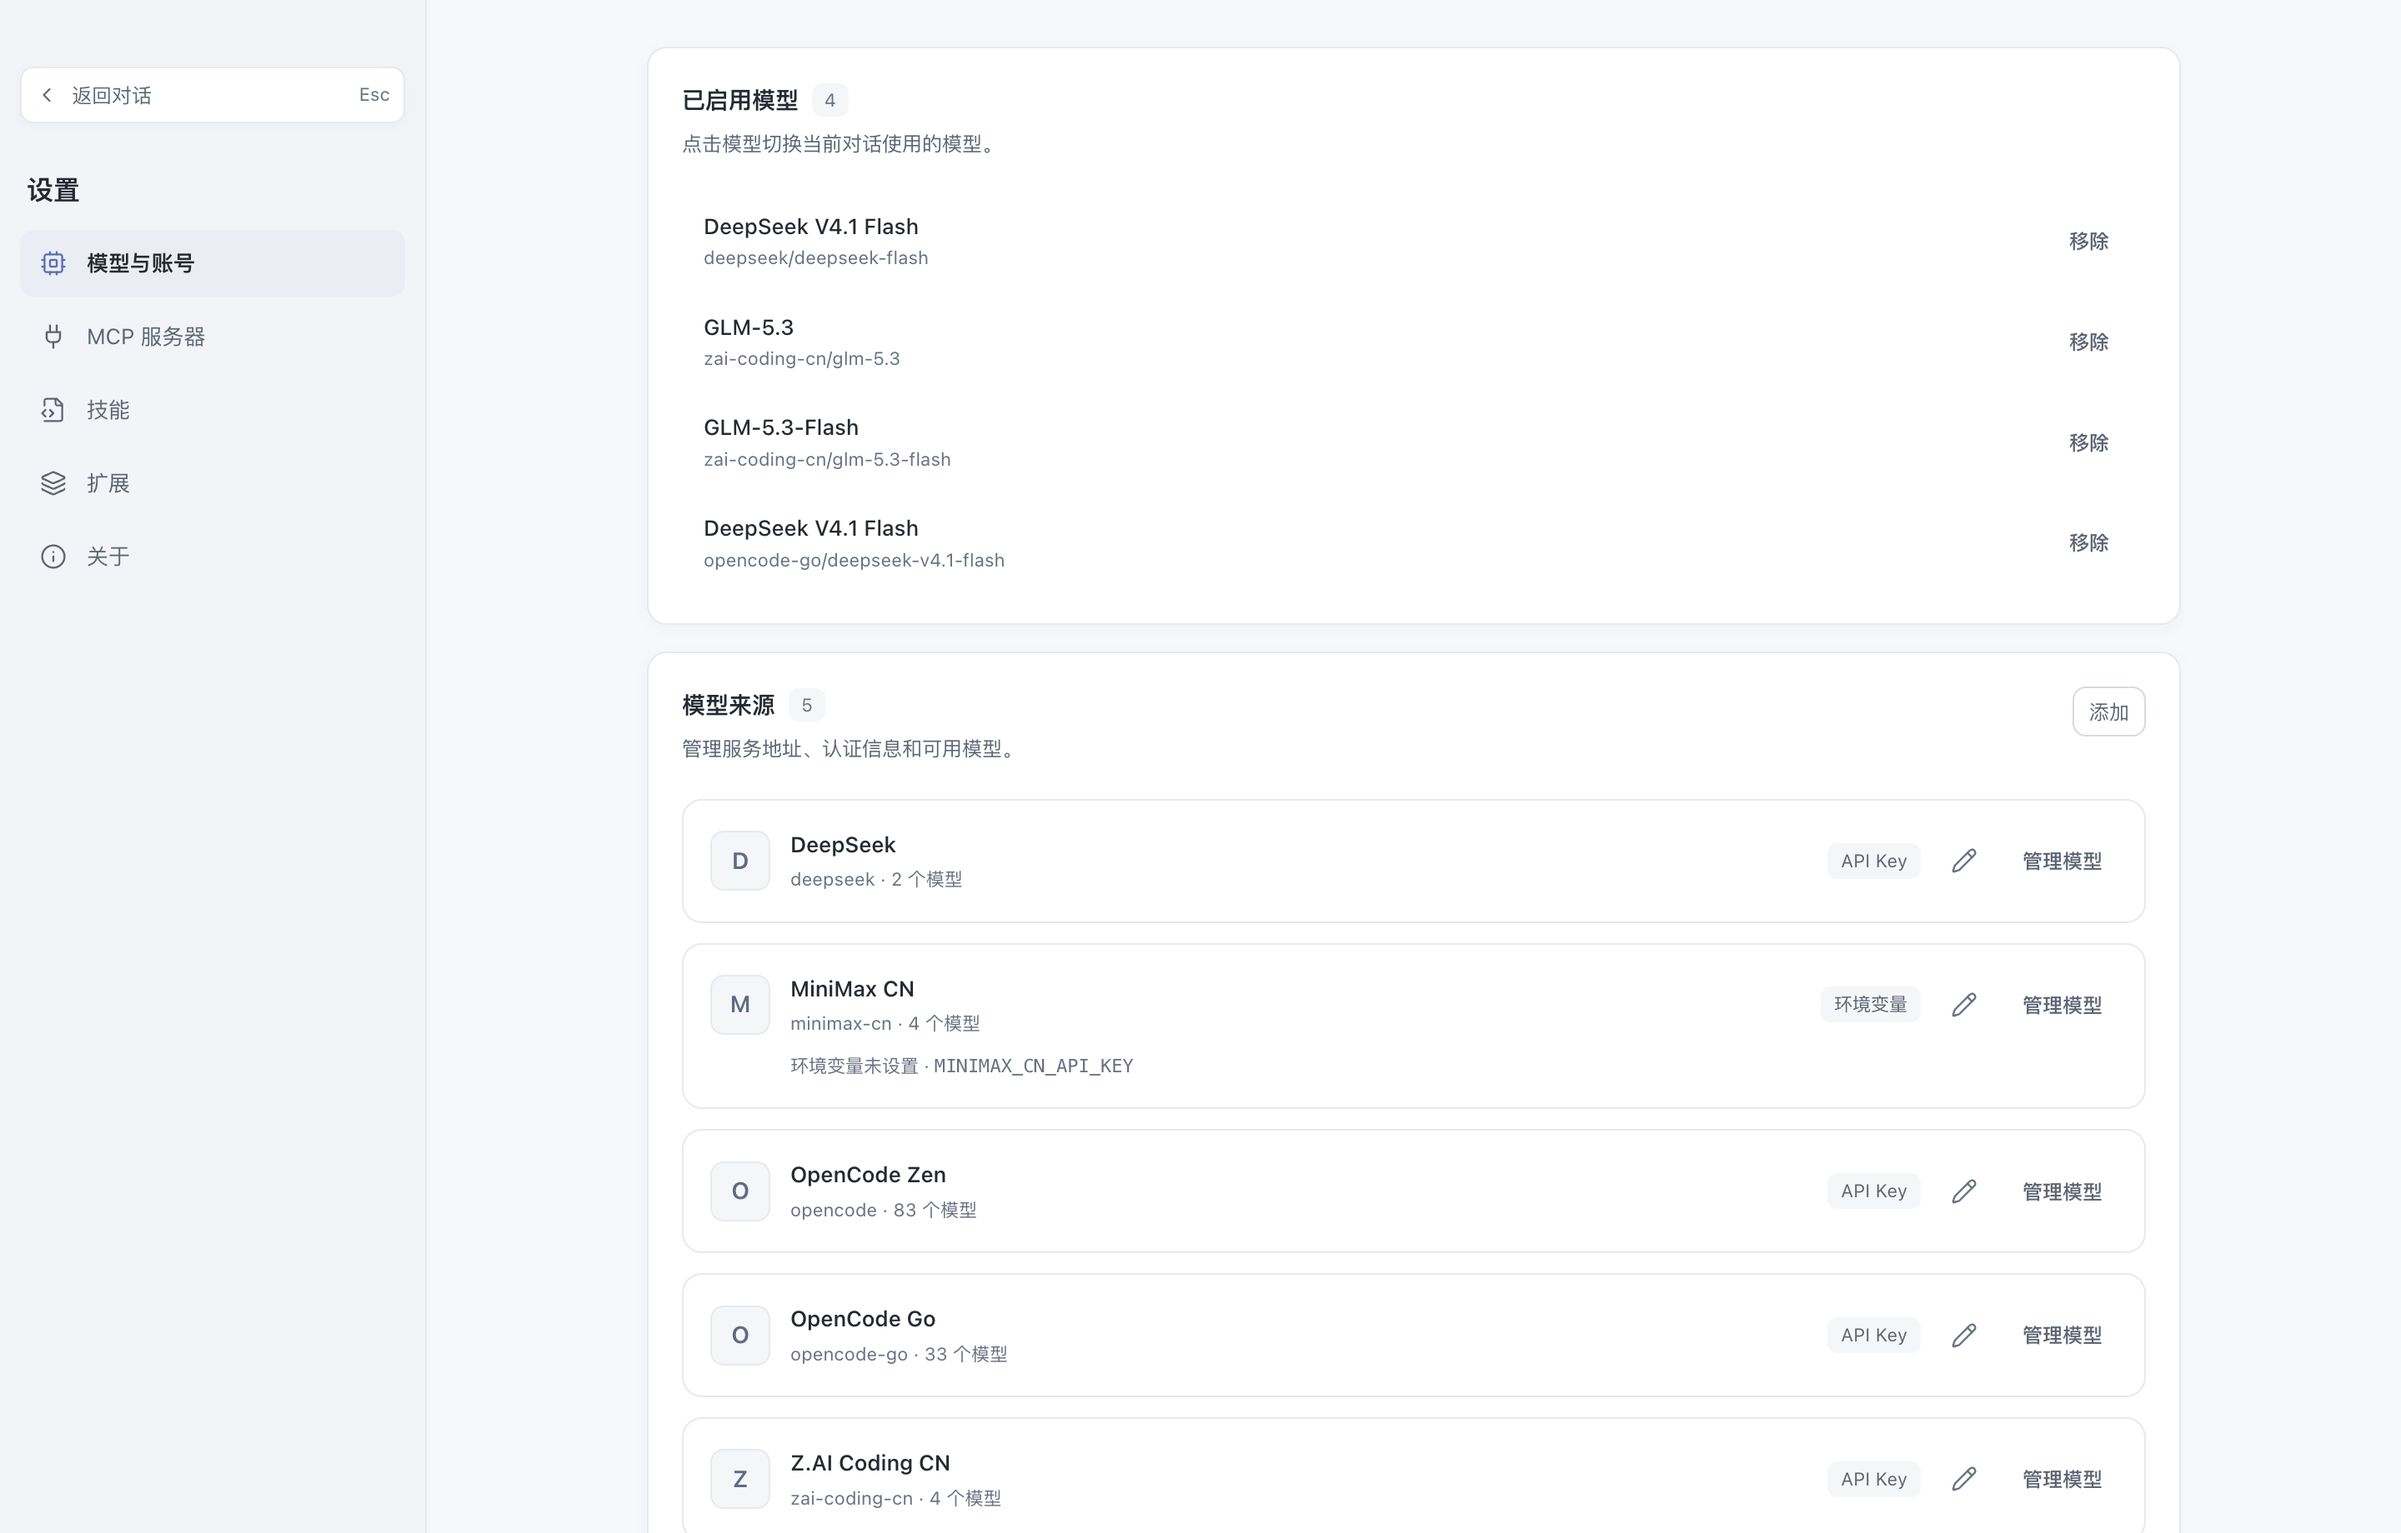
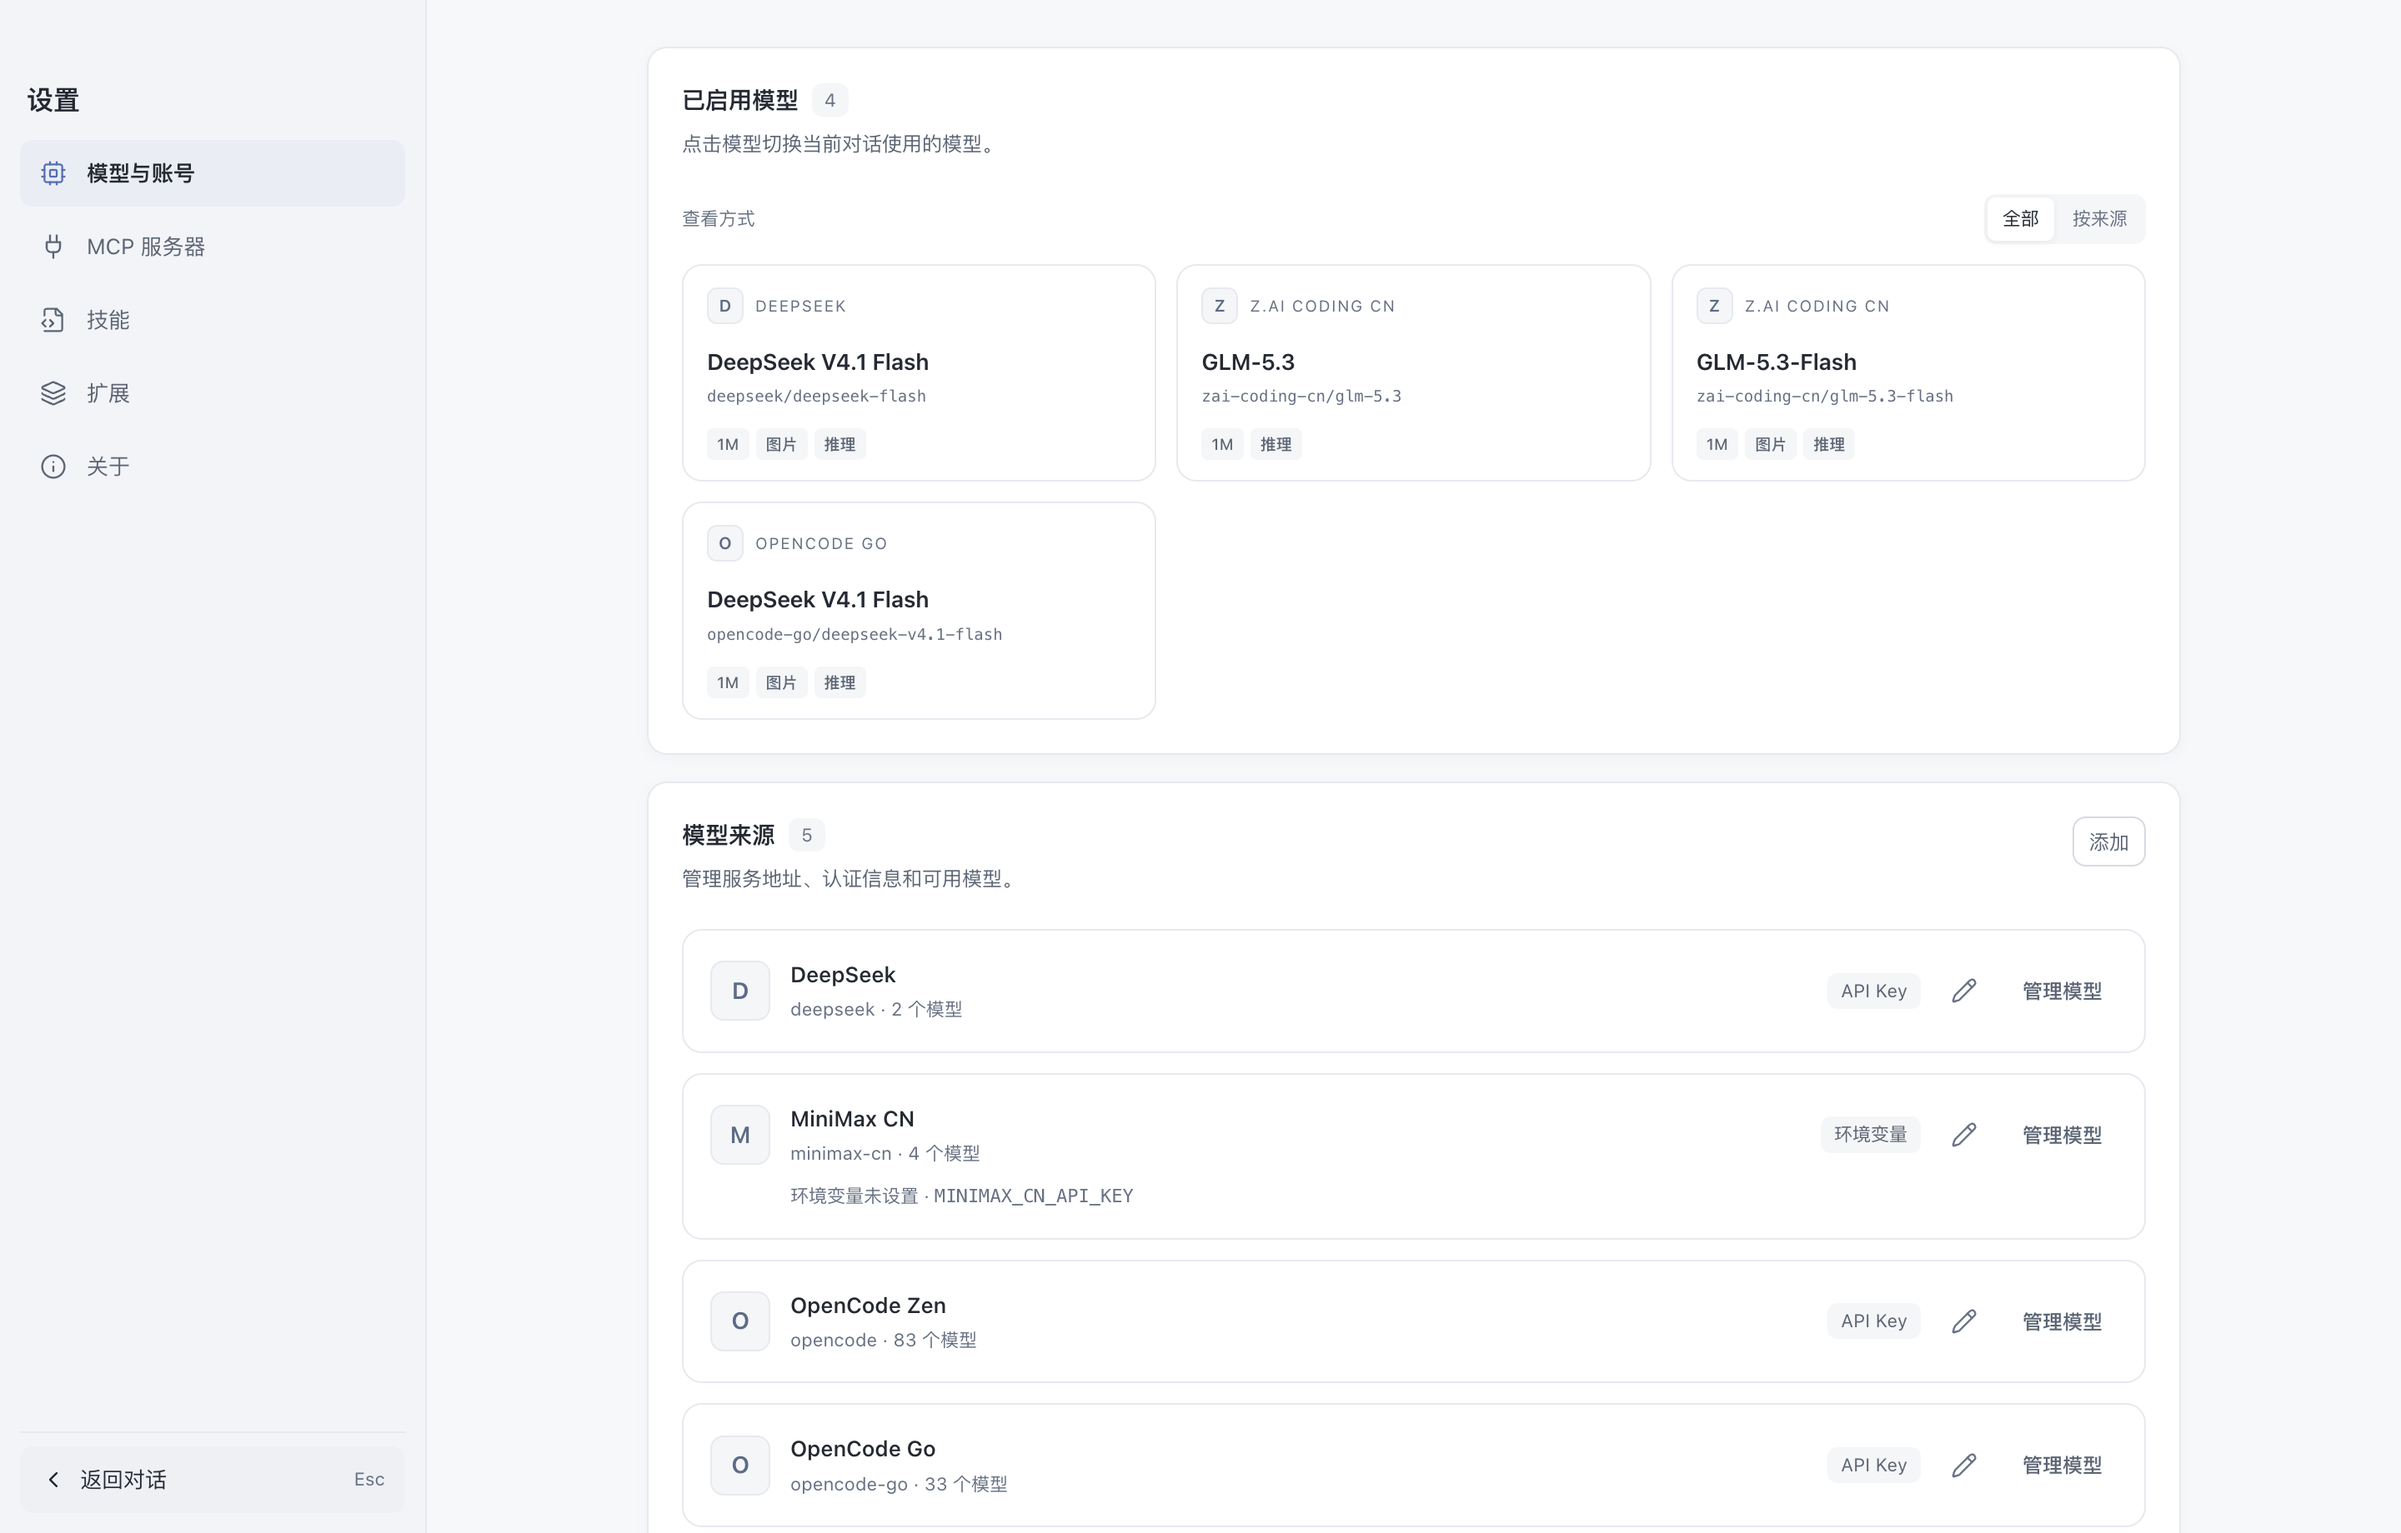
style(settings): 让设置返回操作贴合底部导航样式

diff --git a/web/src/app.css b/web/src/app.css
@@ -607,3 +607,10 @@ kbd { font: inherit; font-size: var(--text-xs); color: var(--faint); }
 .model-group-head strong { color: var(--text); font-weight: 550; }
 .model-group-head > span:last-child { display: inline-grid; place-items: center; min-width: 20px; height: 18px; padding: 0 5px; border: 1px solid var(--border); border-radius: 5px; color: var(--faint); font-size: 9.5px; }
 @media (max-width: 760px) { .model-card-grid { grid-template-columns: repeat(auto-fill, minmax(210px, 1fr)); } }
+
+/* The settings footer matches the quiet bottom nav row of the workspace. */
+.settings-nav-bottom { margin-top: auto; padding: var(--space-2) 0 0; border-top: 1px solid var(--border); }
+.settings-back-button { width: 100%; height: var(--row-height); padding: 0 var(--space-3); border: 0; border-radius: var(--radius-control); background: transparent; box-shadow: none; color: var(--muted); font-size: var(--text-base); font-weight: 400; }
+.settings-back-button:hover { border: 0; background: var(--surface-hover); color: var(--text); }
+.settings-back-button svg { width: 16px; height: 16px; }
+.settings-back-button kbd { margin-left: auto; color: var(--faint); font-size: var(--text-xs); }
